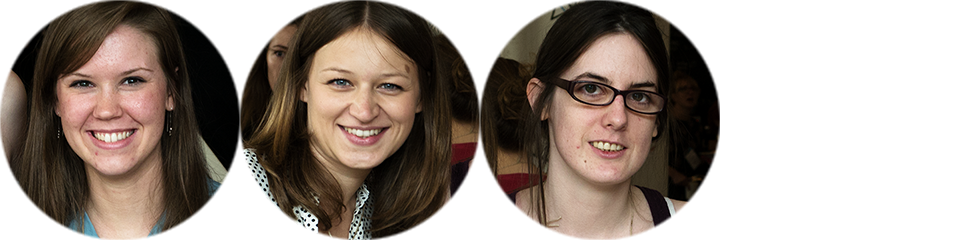
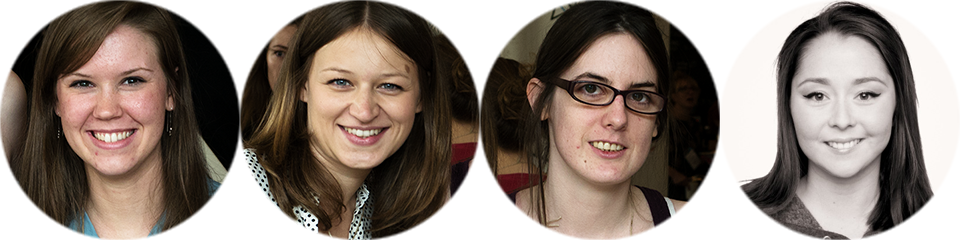
put in pic for jess

Changed region(s): [[0.75, 0.0, 1.0, 1.0]]

diff --git a/public/css/style.css b/public/css/style.css
@@ -389,6 +389,11 @@ body {
   background-position: -480px 0;
 }
 
+.portrait.jess {
+  background-image: url('/img/people.png');
+  background-position: -720px 0;
+}
+
 .person h3 {
   padding-top: 10px;
   text-align: center;
